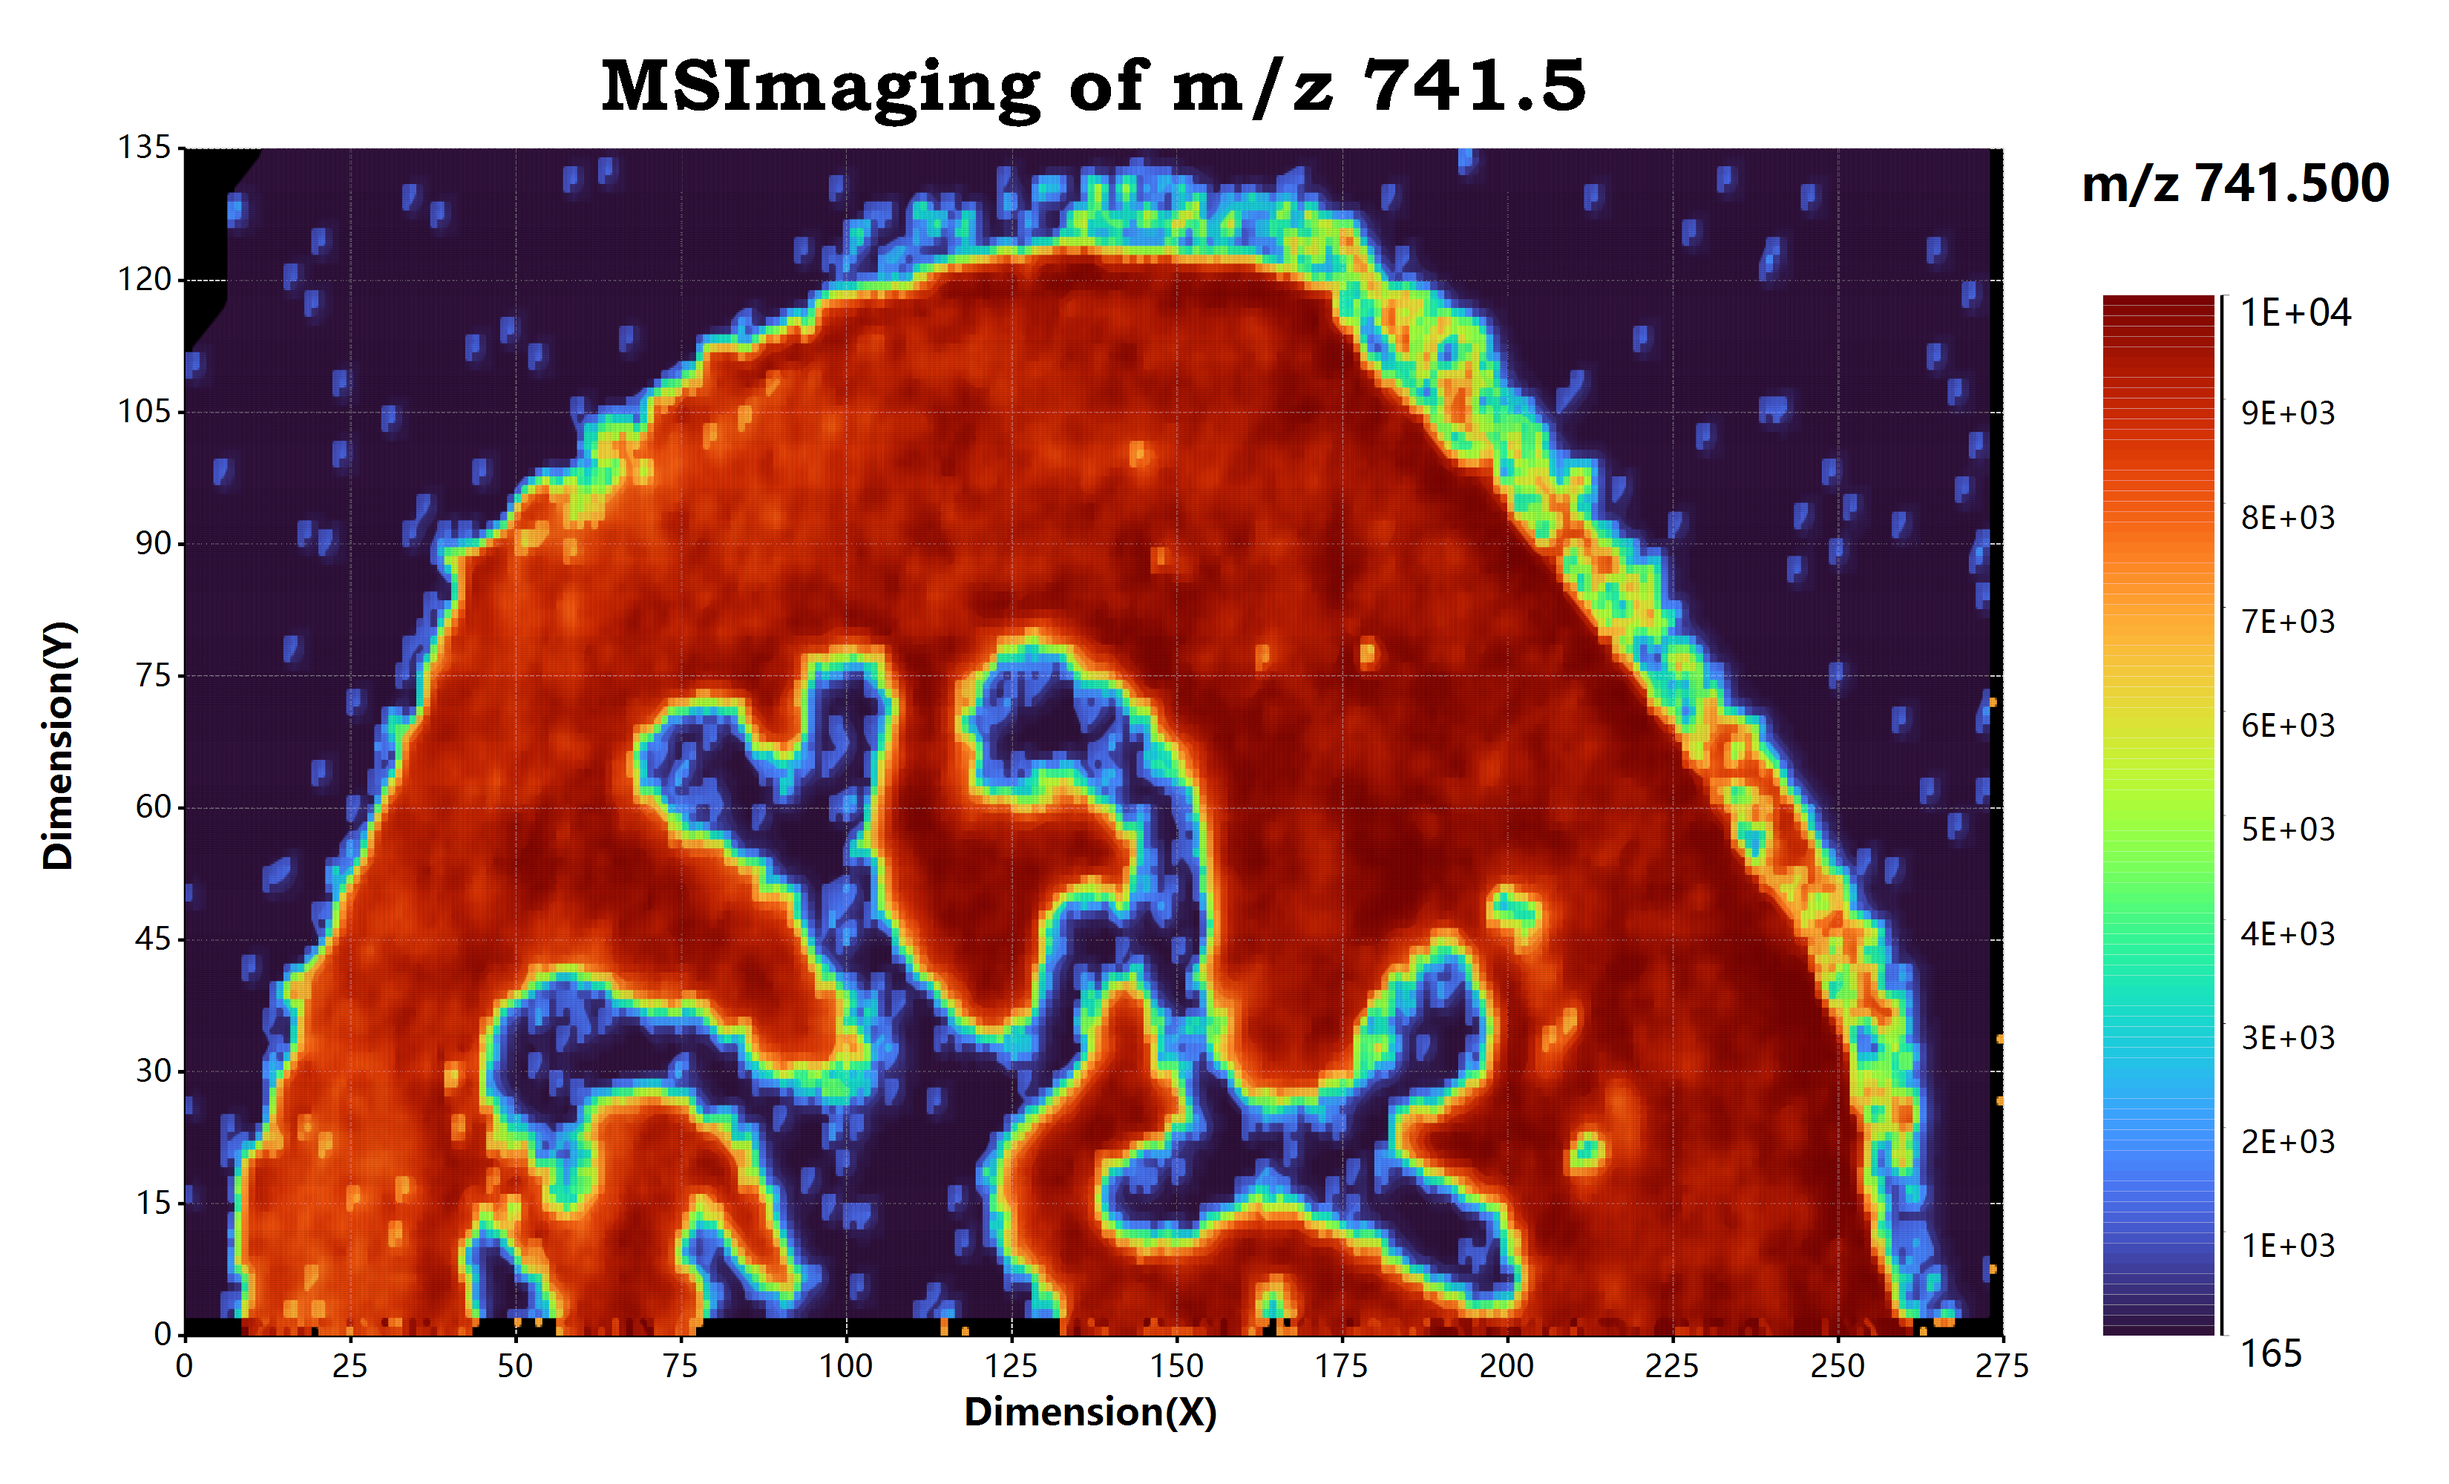
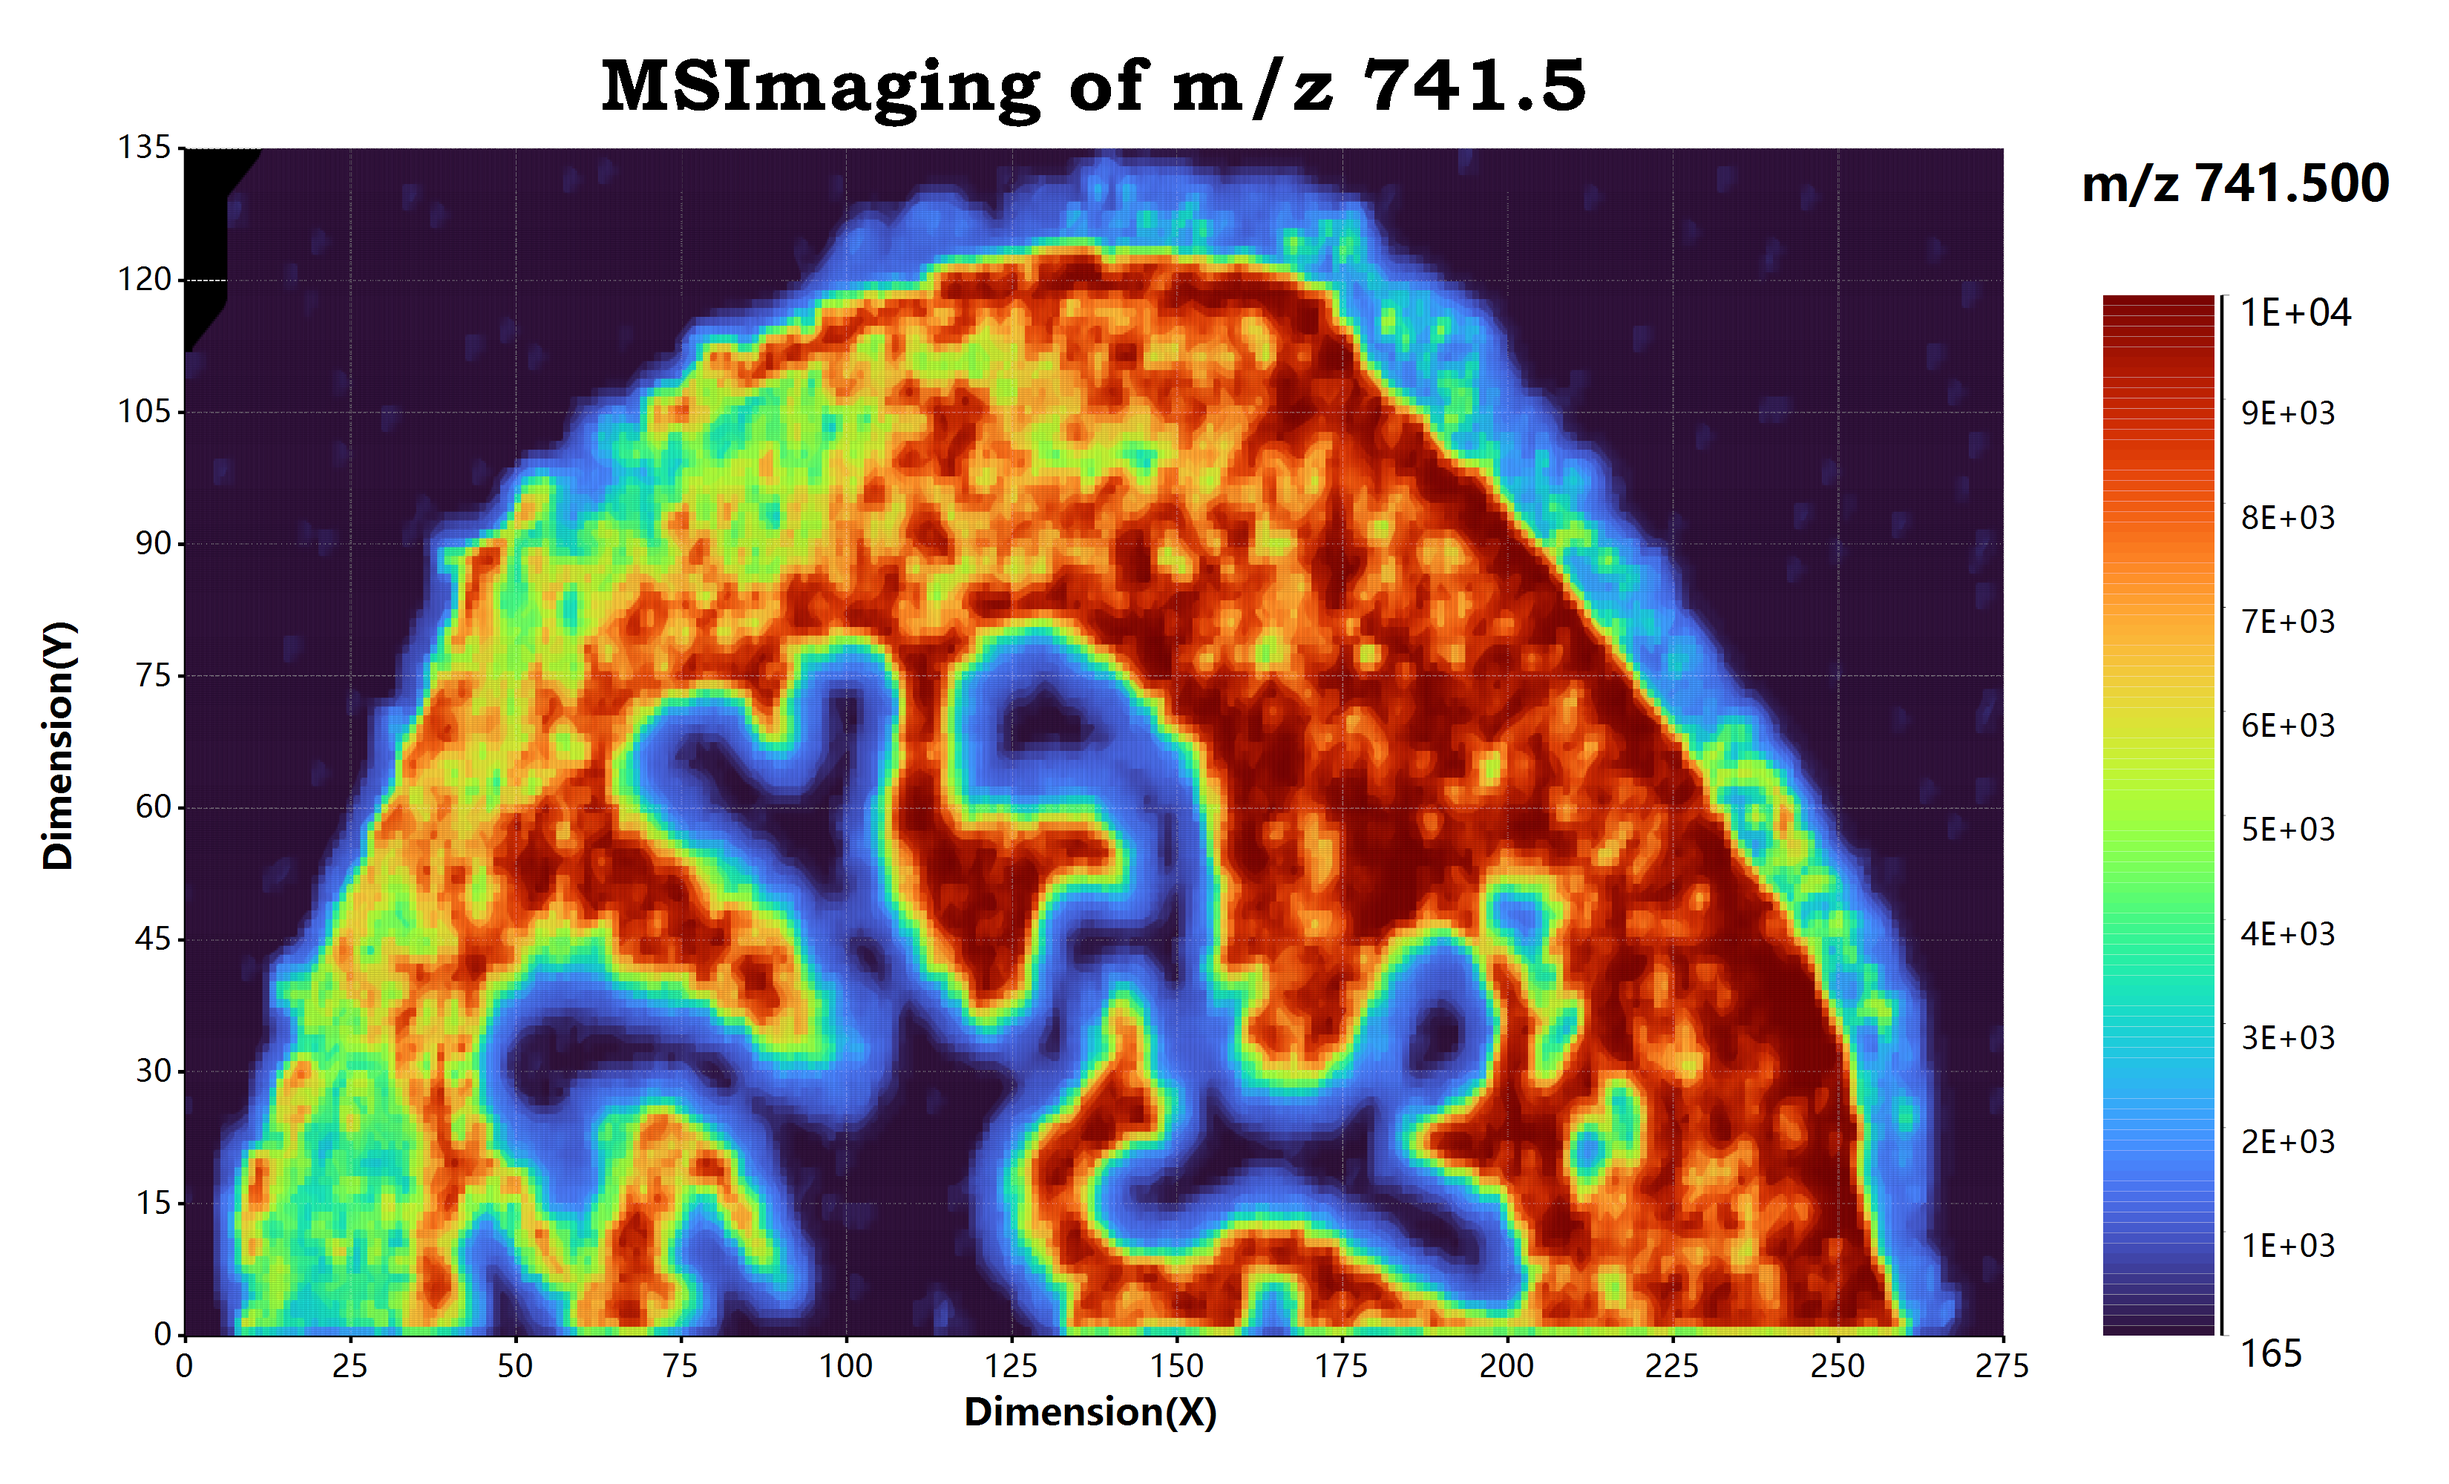
adjust default filter

diff --git a/vignettes/MSImaging/MSIfilter.html b/vignettes/MSImaging/MSIfilter.html
@@ -66,7 +66,7 @@
   <p>
                       
                 
-                    <pre><p>let <code>quantile_scale</code> as function() -> <code>&lt;generic&gt; QuantileScaler</code> {
+                    <pre><p>let <code>quantile_scale</code> as function(<code>q</code> as double = 0.5) -> <code>&lt;generic&gt; QuantileScaler</code> {
     #
     # .NET API information
     #
@@ -141,7 +141,7 @@
   <p>
                       
                 
-                    <pre><p>let <code>knn_scale</code> as function() -> <code>&lt;generic&gt; KNNScaler</code> {
+                    <pre><p>let <code>knn_scale</code> as function(<code>k</code> as integer = 3, <code>q</code> as double = 0.65) -> <code>&lt;generic&gt; KNNScaler</code> {
     #
     # .NET API information
     #

diff --git a/vignettes/MSImaging/MSIfilter/knn_scale.html b/vignettes/MSImaging/MSIfilter/knn_scale.html
@@ -157,7 +157,9 @@
         <h3>Usage</h3>
 
         <div style="width: 100%; padding-left: 3%; color: black;">
-            <pre><code class='language-R' style="color: black; font-weight:normal;"><strong>knn_scale</strong>();</code></pre>
+            <pre><code class='language-R' style="color: black; font-weight:normal;"><strong>knn_scale</strong>(
+    <i>k</i> = 3,
+    <i>q</i> = 0.65);</code></pre>
         </div>
 
         <h3>Arguments</h3>

diff --git a/vignettes/MSImaging/MSIfilter/quantile_scale.html b/vignettes/MSImaging/MSIfilter/quantile_scale.html
@@ -157,7 +157,8 @@
         <h3>Usage</h3>
 
         <div style="width: 100%; padding-left: 3%; color: black;">
-            <pre><code class='language-R' style="color: black; font-weight:normal;"><strong>quantile_scale</strong>();</code></pre>
+            <pre><code class='language-R' style="color: black; font-weight:normal;"><strong>quantile_scale</strong>(
+    <i>q</i> = 0.5);</code></pre>
         </div>
 
         <h3>Arguments</h3>
